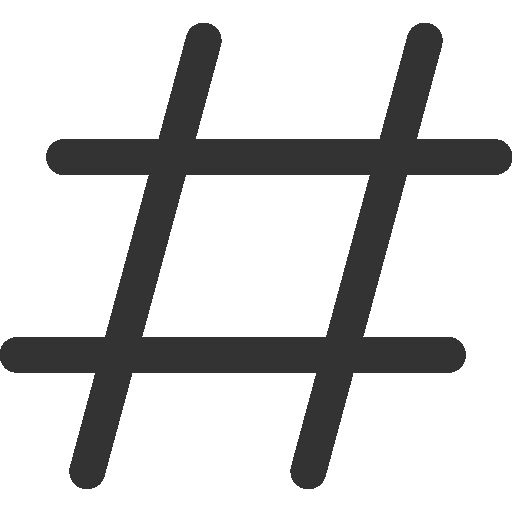
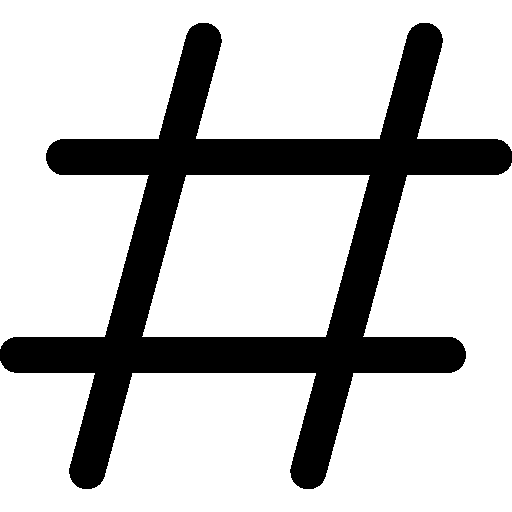
Resized images

Changed region(s): [[0.0, 0.0312, 1.0, 0.9688]]

diff --git a/style/style.css b/style/style.css
@@ -1,3 +1,5 @@
+@import url('https://fonts.googleapis.com/css2?family=Bangers&display=swap');
+
 * {
     margin: 0;
     box-sizing: border-box;
@@ -60,7 +62,7 @@ nav li{
     position: relative;
     color: black;
     list-style: none;
-    
+    font-family: "Bangers", serif;
 }
 
 nav li:not(:last-child)::after {
@@ -72,7 +74,7 @@ nav li:not(:last-child)::after {
 
 a {
     text-decoration: none;
-    color: #333;
+    color: black;
     font-size: 50px;
 }
 
@@ -90,13 +92,14 @@ section {
 }
 
 img {
-    height: 400px;
-    width: 400px;
+    height: 500px;
+    width: 500px;
 }
 
 #x {
     transform: scaleX(-1);
 }
+
 
 
 /* #################### PRINCIPAL #################### */
@@ -113,7 +116,7 @@ img {
     display: grid;
     grid-template-rows: repeat(3, 1fr);
     grid-gap: 5px;
-    background-color: #333;
+    background-color: black;
     padding: 5px;
     border-radius: 10px;
     margin: auto;
@@ -129,11 +132,12 @@ img {
 button {
     width: 100px;
     height: 100px;
-    font-size: 1.5rem;
-    font-weight: bold;
+    font-size: 35px;
+    font-family: "Bangers", serif;
+    font-weight: none;
     text-align: center;
     background-color: #fff;
-    border: 2px solid #333;
+    border: 2px solid black;
     border-radius: 5px;
     cursor: pointer;
     transition: background-color 0.3s;
@@ -144,11 +148,13 @@ button:hover {
 }
 
 h2 {
+    justify-content: center;
     margin-top: 30px;
 }
 
 #vez {
     font-size: 80px;
+    font-family: "Bangers", serif;
 }
 
 #reiniciar {

diff --git a/script/script.js b/script/script.js
@@ -1,6 +1,4 @@
 document.addEventListener('DOMContentLoaded', () => {
-    const peixe = document.getElementById('#peixe');
-    let jogando = true
     let jogador = "X"
     const vez = document.getElementById('vez')
     const tabuleiro = document.querySelector('.tabuleiro')
@@ -9,9 +7,6 @@ document.addEventListener('DOMContentLoaded', () => {
         [0, 3, 6], [1, 4, 7], [2, 5, 8], // Colunas
         [0, 4, 8], [2, 4, 6]             // Diagonais
     ];
-    let X = window.innerWidth / 2 ;
-    let Y = window.innerHeight / 2;
-
 
 
     tabuleiro.addEventListener('click', (event) => {
@@ -21,9 +16,8 @@ document.addEventListener('DOMContentLoaded', () => {
         if (button.tagName === 'BUTTON' && button.textContent === '') {
             button.textContent = jogador; // preenche o botão com jogador
 
-            jogador = jogador === 'X' ? 'O' : 'X';
-            vez.textContent = jogador;
-            console.log(vez)
+            jogador = jogador === 'X' ? 'O' : 'X'; // alterna o símbolo do jogador
+            vez.textContent = jogador; // muda o sinalizador abaixo do tabuleiro
         }
     });
 });

diff --git a/index.html b/index.html
@@ -48,7 +48,7 @@
                 </button>
             </div>
             <div>
-                <img src="./image/bola.png" alt="boneco azul" id="bola">
+                <img src="./image/bolanova.png" alt="boneco azul" id="bola">
             </div>
         </section>
     </main>
